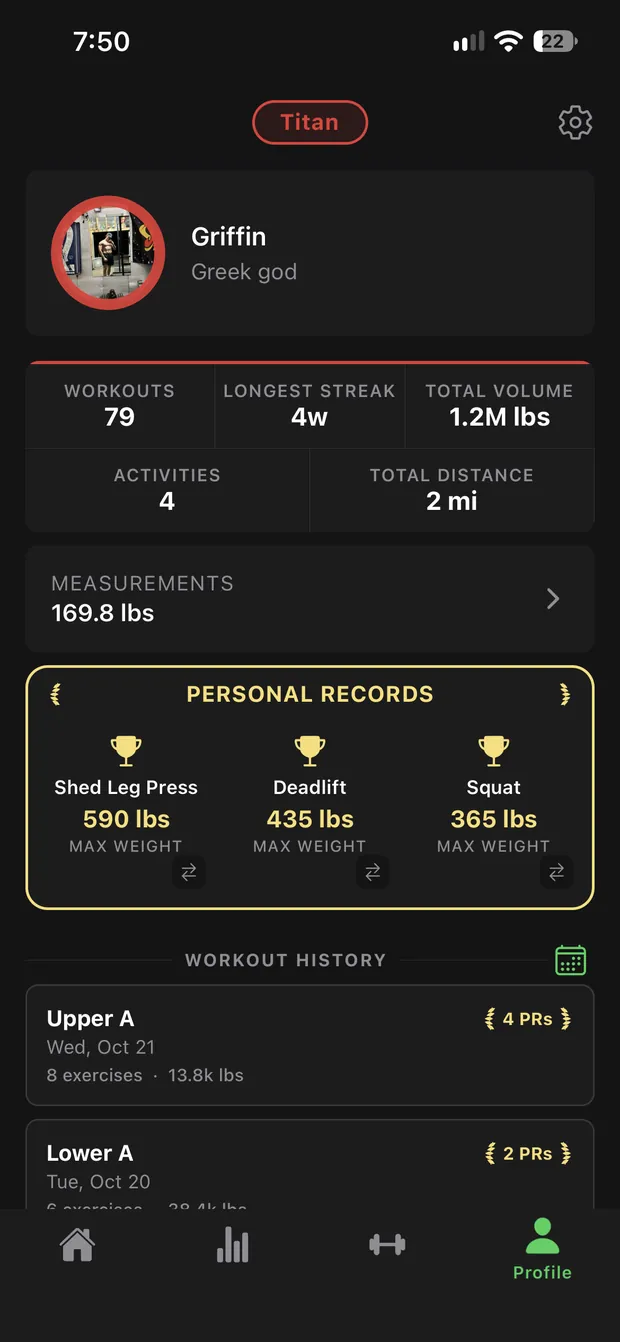
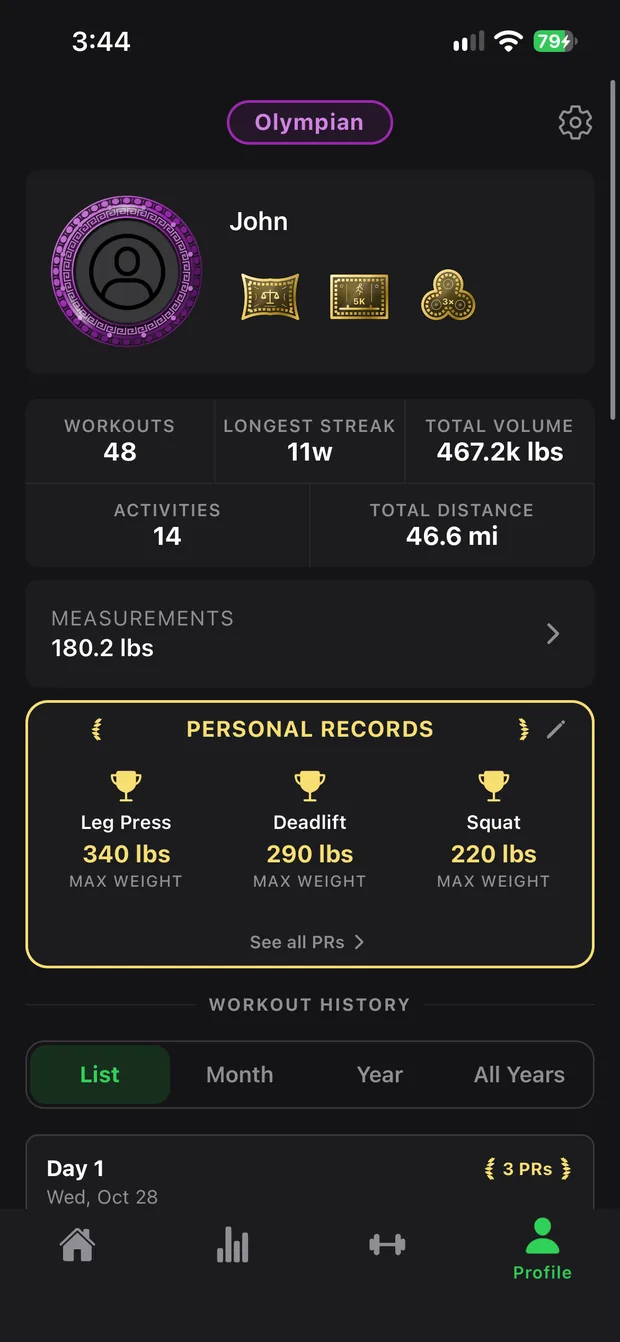
Refresh store and site screenshots for the rank redesign and Trophy Hall
App Store slide 05 now shows the redesigned Your Journey screen, and slide 10
swaps the exercise library for the Trophy Hall ("Earn Achievements for every
milestone"); both rebuilt at 6.9" and 6.3". The homepage profile shot is
recaptured in the Green accent at Olympian with pinned trophies.

preview.py scales each clip to 888x1920 before its status-bar crop, so a native
1170x2532 recording (the new 04-rank.MP4) crops the same as the old captures.

diff --git a/src/templates/homepage.html b/src/templates/homepage.html
@@ -538,7 +538,7 @@
       </div>
       <div class="split">
         <img class="phone split-shot reveal" src="/brand/shots/slide-profile.webp" width="620" height="1342" loading="lazy" decoding="async"
-             alt="Profile screen showing Titan Greek Rank, lifetime stats and personal records">
+             alt="Profile screen showing Olympian Greek Rank, pinned trophies, lifetime stats and personal records">
         <div>
           <p class="feature-label">Greek Rank</p>
           <h2 class="section-head feature-title">Rise through the ranks</h2>

diff --git a/src/brand/store/preview.py b/src/brand/store/preview.py
@@ -26,18 +26,19 @@ PREVIEWS = {
         ('03-progress.MOV', ['Your progress,', 'week by week']),
     ],
     'arete-preview-2.mp4': [
-        ('04-rank.MOV', ['Earn your rank,', 'reach Aretē']),
+        ('04-rank.MP4', ['Earn your rank,', 'reach Aretē']),
         ('05-coach.MOV', ['A Coach built', 'for your goals']),
         # CapCut appended its logo card from 3.8 s; the third value ends the clip early
         ('06-run.MOV', ['Runs, rides,', 'walks and hikes'], 3.75),
     ],
 }
 
-# Recordings are 888 wide with the status bar (and its red recording
+# Recordings are scaled to 888 x 1920 first (a native 1170 x 2532 capture lands
+# within a pixel of that), with the status bar (and its red recording
 # indicator) in the top 100 px and the empty home-indicator strip in the
 # bottom 50; all three are cut before scaling
 CROP_W, CROP_H = 886, 1770
-CROP = f'crop={CROP_W}:{CROP_H}:1:100'
+CROP = f'scale=888:1920,crop={CROP_W}:{CROP_H}:1:100'
 SHOT_W = 776
 SHOT_H = round(SHOT_W * CROP_H / CROP_W / 2) * 2
 SHOT_X, SHOT_Y = (W - SHOT_W) // 2, 288

diff --git a/src/brand/store/build.py b/src/brand/store/build.py
@@ -32,7 +32,7 @@ SLIDES = [
     ('07-ai-routine.png', 'Programs built for you'),
     ('08-pr-dashboard.png', 'Track your PRs'),
     ('09-personal-records.png', 'Every record in one place'),
-    ('10-exercise-library.png', 'Full exercise library with demos'),
+    ('10-trophy-hall.png', 'Earn Achievements for every milestone'),
 ]
 
 # Screen width inside the frame; height follows the capture's own aspect
